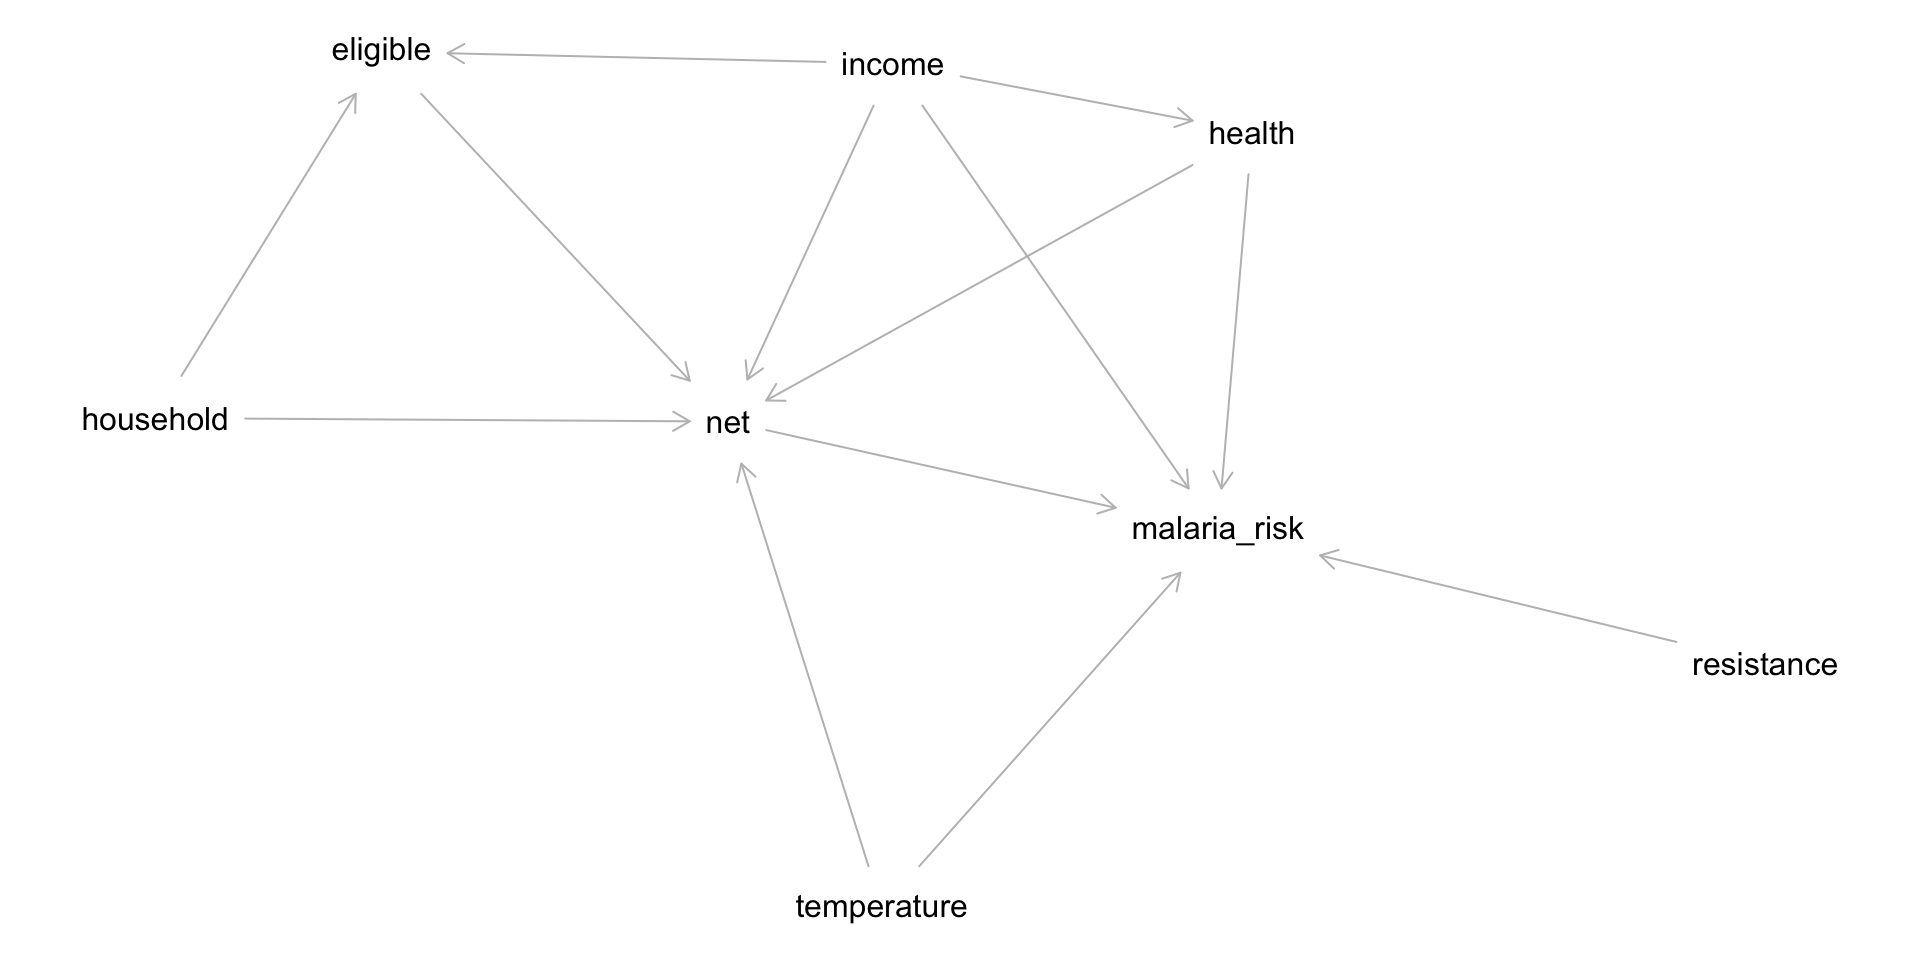
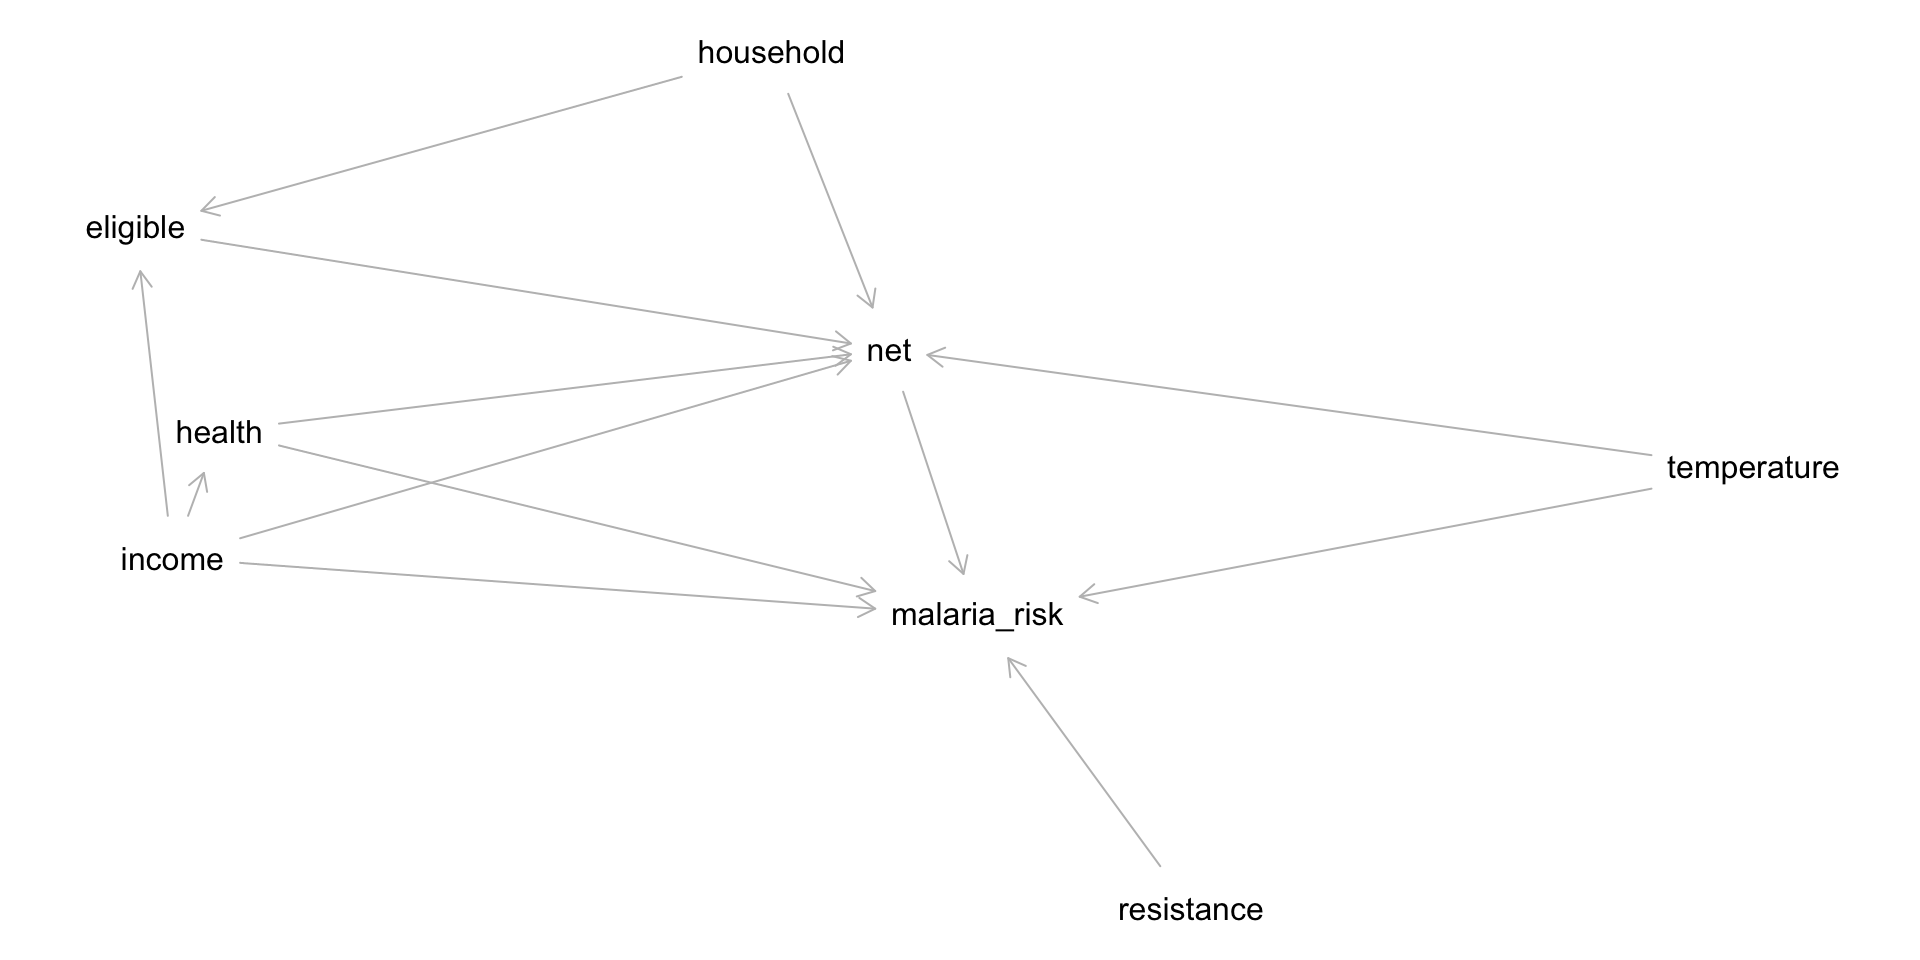
Minor edits

diff --git a/lectures/causal_inference/index.html b/lectures/causal_inference/index.html
@@ -1089,15 +1089,17 @@ X \to Y
 <section id="a-crash-course-in-good-and-bad-controls" class="slide level2">
 <h2>A crash course in good and bad controls</h2>
 <ul>
-<li class="fragment"><p><strong>“Control” variable</strong>: A variable introduced in a statistical model specifically to enable a causal estimate; it is not of intrinsic interest by itself</p></li>
-<li class="fragment"><p><strong>Common heuristics</strong> for choosing control variables:</p>
+<li class="fragment"><p><strong>“Control” variable</strong>: A variable included in the statistical model to enable estimation of the causal effect of another variable; it is NOT just any predictor!</p></li>
+<li class="fragment"><p><strong>Common but bad heuristics</strong> for choosing control variables:</p>
 <ul>
 <li class="fragment"><p>Anything in the spreadsheet (YOLO! causal salad)</p></li>
 <li class="fragment"><p>Any variables not highly collinear</p></li>
-<li class="fragment"><p>Any variable that is statistically significantly associated with the outcome</p></li>
+<li class="fragment"><p>Any variable significantly associated with the outcome</p></li>
 <li class="fragment"><p>Any variable that improves predictive performance (e.g., using automatic variable selection)</p></li>
 <li class="fragment"><p>Any pre-treatment variable (baseline measurements)</p></li>
 </ul></li>
+<li class="fragment"><p>The right question: Does this variable block confounding without introducing new bias?</p></li>
+<li class="fragment"><p>A better approach: Use a DAG to justify each control variable</p></li>
 </ul>
 <aside class="notes">
 <ul>
